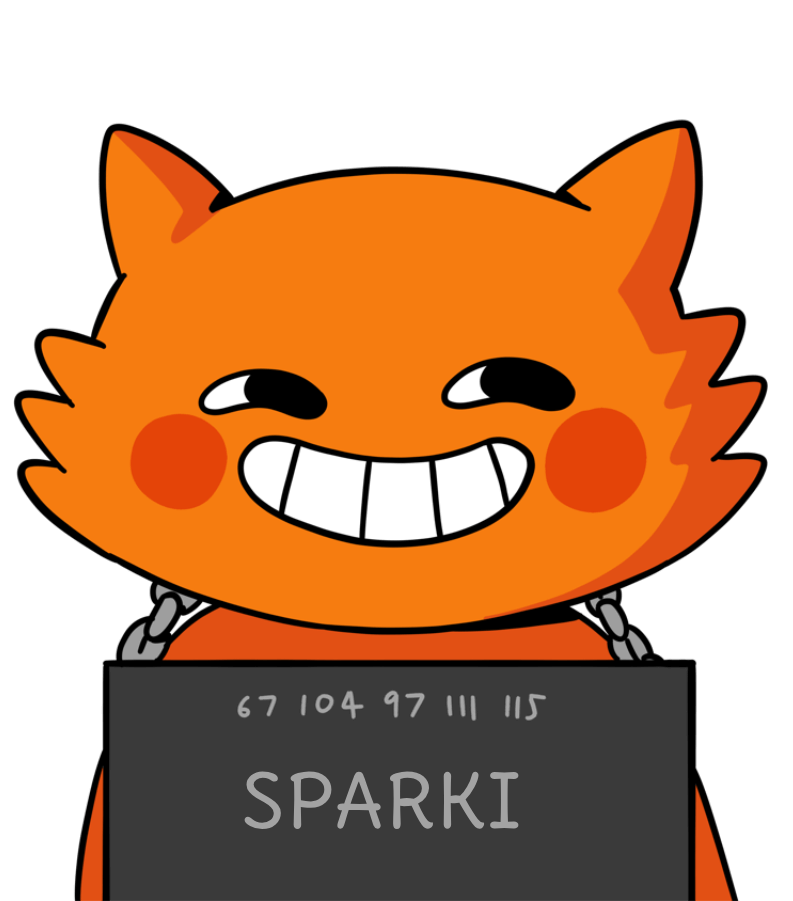
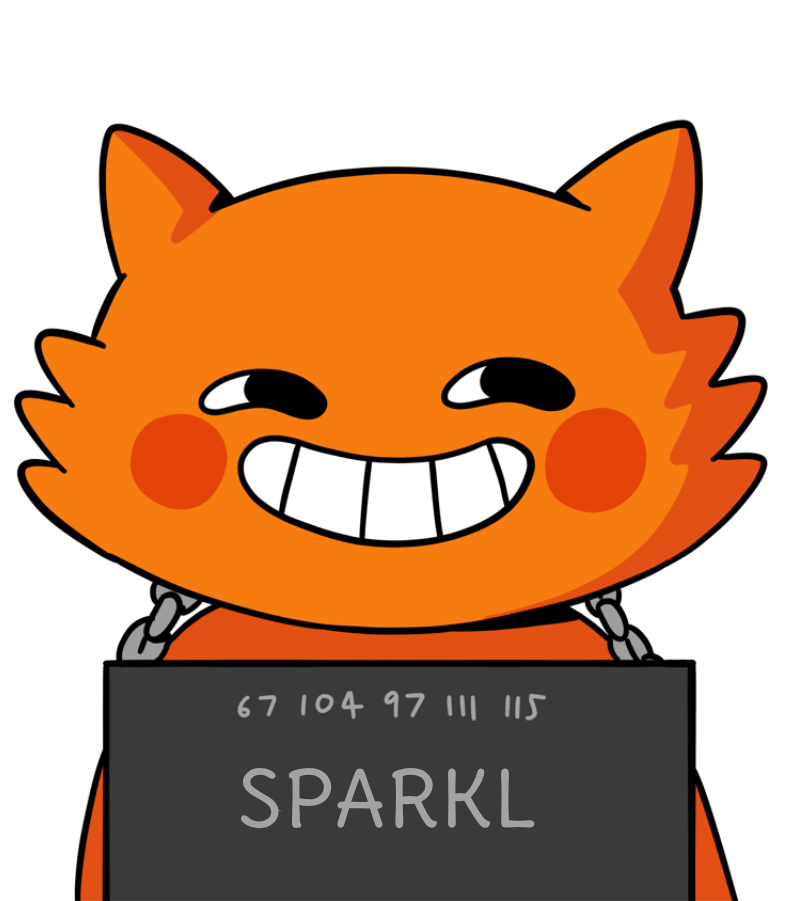
1

Changed region(s): [[0.3026, 0.8391, 0.6658, 0.9323], [0.3026, 0.9012, 0.3632, 0.9323]]

diff --git a/index.html b/index.html
@@ -3,9 +3,9 @@
 
 <head>
   <meta charset="utf-8">
-  <title>The Sparky Cat | $SPARKI</title>
+  <title>The Sparky Cat | $SPARKL</title>
   <meta content="width=device-width, initial-scale=1" name="viewport">
-  <meta content="The Ginger Cat" name="$SPARKI">
+  <meta content="The Ginger Cat" name="$SPARKL">
   <link href="css/normalize.css" rel="stylesheet" type="text/css">
   <link href="css/style.css" rel="stylesheet" type="text/css">
   <link href="css/bstyle.css" rel="stylesheet" type="text/css">
@@ -28,7 +28,7 @@ font-family: 'Super Squad';
   <div class="section_hero">
     <a data-w-id="4e8d95c4-39d8-cf17-89f1-7575d3437792"
       style="-webkit-transform:translate3d(0, 0, 0) scale3d(1, 1, 1) rotateX(0) rotateY(0) rotateZ(-4deg) skew(0, 0);-moz-transform:translate3d(0, 0, 0) scale3d(1, 1, 1) rotateX(0) rotateY(0) rotateZ(-4deg) skew(0, 0);-ms-transform:translate3d(0, 0, 0) scale3d(1, 1, 1) rotateX(0) rotateY(0) rotateZ(-4deg) skew(0, 0);transform:translate3d(0, 0, 0) scale3d(1, 1, 1) rotateX(0) rotateY(0) rotateZ(-4deg) skew(0, 0)"
-      href="https://pump.fun/GbYPvF7UH5CfvTawuZVafcg7PjoRFcPKGj6qwxCQump" class="buy w-button">BUY $SPARKI</a>
+      href="https://pump.fun/SVPhrQpL5hQ2LbrASApnsNgqQRv76BJb1CXhtrAxump" class="buy w-button">BUY $SPARKL</a>
     <img src="images/liane_left.svg" loading="lazy" alt="" class="liane_left">
     <img src="images/liane_right.svg" loading="lazy" alt="" class="laine_right">
     <div class="grass_hero">
@@ -50,15 +50,15 @@ font-family: 'Super Squad';
           dominant-baseline: central;
         }
       </style>
-      <text class="rico-text" x="50%" y="35%">SPARKI</text>
+      <text class="rico-text" x="50%" y="35%">SPARKL</text>
     </svg>
 
 
     <img src="images/rico-h.png" loading="lazy" sizes="100vw" srcset="images/rico-h.png 500w, images/rico-h.png 793w"
       alt="" class="chara_hero">
     <div class="links_hero">
-      <a href="https://t.me/sparkisolfun" class="tg w-button" target="blank"></a>
-      <a href="https://x.com/sparkisolfun
+      <a href="https://t.me/sparklsolfun" class="tg w-button" target="blank"></a>
+      <a href="https://x.com/sparklsolfun
 " class="x w-button" target="blank"></a>
 
     </div>
@@ -66,8 +66,8 @@ font-family: 'Super Squad';
   <div class="separator_ca">
     <div class="block_ca">
       <div class="ca_in">
-        <div class="ca">GbYPvF7UH5CfvTawuZVafcg7PjoRFcPKGj6qwxCQump</div>
-        <div class="ca_mobile">GbYPvF7UH5CfvTawuZVafcg7PjoRFcPKGj6qwxCQump</div>
+        <div class="ca">SVPhrQpL5hQ2LbrASApnsNgqQRv76BJb1CXhtrAxump</div>
+        <div class="ca_mobile">SVPhrQpL5hQ2LbrASApnsNgqQRv76BJb1CXhtrAxump</div>
         <a href="#" class="copy w-button">COPY</a>
       </div>
     </div>
@@ -80,7 +80,7 @@ font-family: 'Super Squad';
   </div>
   <div class="section_about_bottom">
     <div class="block_para">
-      <p class="paragraph">Yeah, I’m SPARKI the cat. The troublemaker, the chaos starter, the one who keeps things
+      <p class="paragraph">Yeah, I’m SPARKL the cat. The troublemaker, the chaos starter, the one who keeps things
         interesting. I don’t just cause a
         scene—I own it. But don’t let the mischief fool you—I’ve got big plans, and they’re just getting started. You’re
         here
@@ -97,7 +97,7 @@ font-family: 'Super Squad';
     <div class="block_tokenomics">
       <div class="tokenomics_in">
         <div class="tokenomics_details">
-          <div class="h2">TOTAL SUPPLY = 1 BILLION $SPARKI</div>
+          <div class="h2">TOTAL SUPPLY = 1 BILLION $SPARKL</div>
         </div>
         <div class="tokenomics_details">
           <div class="h2">MINT = REVOKED</div>
@@ -113,10 +113,10 @@ font-family: 'Super Squad';
       class="chara_diamond">
   </div>
   <div class="section_join">
-    <div class="h1 h1_3">SPARKI THE<br>CHAOTIC CAT</div>
+    <div class="h1 h1_3">SPARKL THE<br>CHAOTIC CAT</div>
     <div class="block_links">
-      <a href="https://t.me/sparkisolfun" class="tg w-button" target="blank"></a>
-      <a href="https://x.com/sparkisolfun" class="x w-button" target="blank"></a>
+      <a href="https://t.me/sparklsolfun" class="tg w-button" target="blank"></a>
+      <a href="https://x.com/sparklsolfun" class="x w-button" target="blank"></a>
 
     </div><img src="images/rico.png" loading="lazy" sizes="(max-width: 479px) 90vw, 410.7749938964844px"
       srcset="images/rico.png 500w, images/rico.png 800w" alt="" class="chara_footer">
